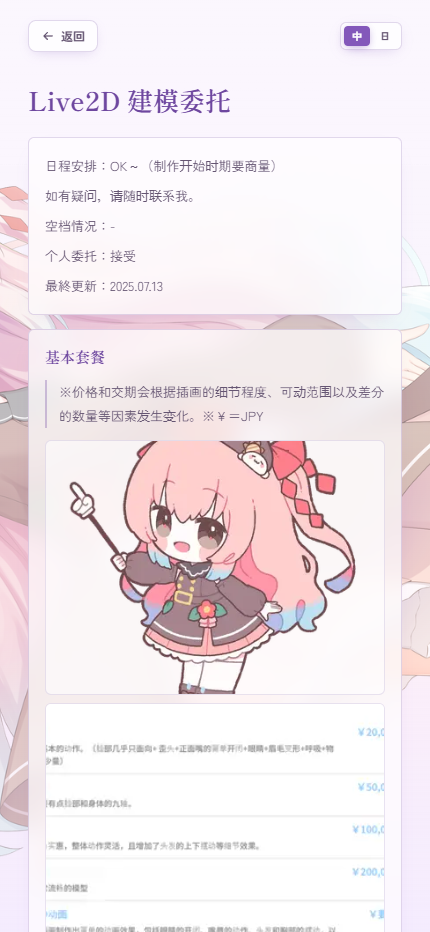
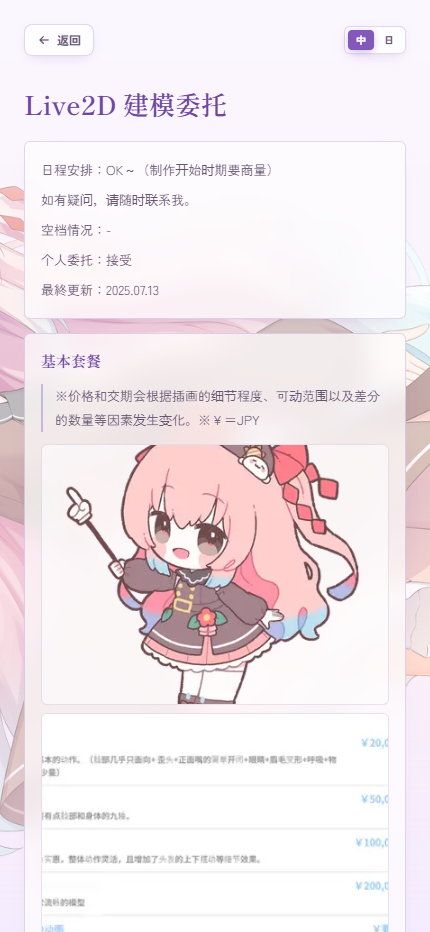
feat: 头像与顶栏齐平、加宽布局、简介卡片、菜单中日翻译

diff --git a/src/components/Home.tsx b/src/components/Home.tsx
@@ -24,16 +24,15 @@ export function Home() {
     window.localStorage.setItem("kokonoyu-lang", next);
   };
 
+  const bioLines = profile.bio[lang].split("\n").filter(Boolean);
+
   return (
-    <main className="relative z-10 mx-auto flex min-h-dvh w-full max-w-[430px] flex-col px-7 pb-16 pt-5">
+    <main className="relative z-10 mx-auto flex min-h-dvh w-full max-w-[560px] flex-col px-6 pb-16 pt-6">
       <div className="relative z-30 flex items-center justify-between">
         <MenuButton lang={lang} />
-        <LangSwitch lang={lang} onChange={switchLang} />
-      </div>
 
-      <header className="animate-fade-up mt-6 text-center">
-        <div className="mx-auto h-[148px] w-[148px] rounded-[22px] border-2 border-deep/25 bg-white/60 p-1.5 shadow-[0_18px_44px_-18px_rgba(131,88,186,0.5)] backdrop-blur-md">
-          <div className="relative h-full w-full overflow-hidden rounded-[15px]">
+        <div className="h-[132px] w-[132px] rounded-[20px] border-2 border-deep/25 bg-white/60 p-1.5 shadow-[0_18px_44px_-18px_rgba(131,88,186,0.5)] backdrop-blur-md">
+          <div className="relative h-full w-full overflow-hidden rounded-[13px]">
             <Image
               src="/avatar.png"
               alt="九重紫"
@@ -45,7 +44,11 @@ export function Home() {
           </div>
         </div>
 
-        <p className="mt-4 text-[11px] font-semibold uppercase tracking-[0.42em] text-deep/70">
+        <LangSwitch lang={lang} onChange={switchLang} />
+      </div>
+
+      <header className="animate-fade-up mt-6 text-center">
+        <p className="text-[11px] font-semibold uppercase tracking-[0.42em] text-deep/70">
           {profile.romaji}
         </p>
         <h1 className="mt-1 font-display text-[34px] font-semibold leading-tight text-deep">
@@ -57,9 +60,19 @@ export function Home() {
 
         <div className="mx-auto mt-5 h-px w-14 bg-deep/20" />
 
-        <p className="mx-auto mt-5 max-w-[350px] whitespace-pre-line px-2 text-[13px] leading-7 text-sub [text-shadow:0_1px_2px_rgba(255,255,255,0.85),0_0_14px_rgba(255,255,255,0.7)]">
-          {profile.bio[lang]}
-        </p>
+        <div className="mx-auto mt-5 max-w-[500px] rounded-[10px] border border-deep/15 bg-white/65 p-5 text-left shadow-[0_10px_28px_-18px_rgba(131,88,186,0.45)] backdrop-blur-md">
+          <p className="font-display text-[13px] font-semibold tracking-wide text-deep">
+            {lang === "zh" ? "自我介绍" : "自己紹介"}
+          </p>
+          <div className="mt-3 space-y-3">
+            {bioLines.map((line, i) => (
+              <div key={i} className="flex items-start gap-3">
+                <span className="mt-[8px] h-[6px] w-[6px] shrink-0 rounded-[2px] bg-deep/50" />
+                <p className="text-[13.5px] leading-6 text-sub">{line}</p>
+              </div>
+            ))}
+          </div>
+        </div>
       </header>
 
       <nav aria-label="リンク" className="mt-7">

diff --git a/src/data/links.ts b/src/data/links.ts
@@ -32,22 +32,22 @@ export const menu = {
     {
       id: "commission-zh",
       href: "/commission",
-      label: { ja: "依頼", zh: "委托" },
+      label: { ja: "ご依頼について", zh: "委托" },
     },
     {
       id: "commission",
       href: "/works",
-      label: { ja: "Commission", zh: "Commission" },
+      label: { ja: "実績", zh: "工作展示" },
     },
     {
       id: "contact",
       href: "/contact",
-      label: { ja: "Contact", zh: "Contact" },
+      label: { ja: "お問合せ", zh: "联系" },
     },
     {
       id: "design",
       href: "/design",
-      label: { ja: "Design", zh: "Design" },
+      label: { ja: "デザイン", zh: "设计" },
     },
   ],
 };

diff --git a/src/components/SubPage.tsx b/src/components/SubPage.tsx
@@ -30,7 +30,7 @@ export function SubPage({
   return (
     <>
       <Background />
-      <main className="relative z-10 mx-auto flex min-h-dvh w-full max-w-[430px] flex-col px-7 pb-16 pt-5">
+      <main className="relative z-10 mx-auto flex min-h-dvh w-full max-w-[560px] flex-col px-6 pb-16 pt-6">
         <div className="flex items-center justify-between">
           <Link
             href="/"
